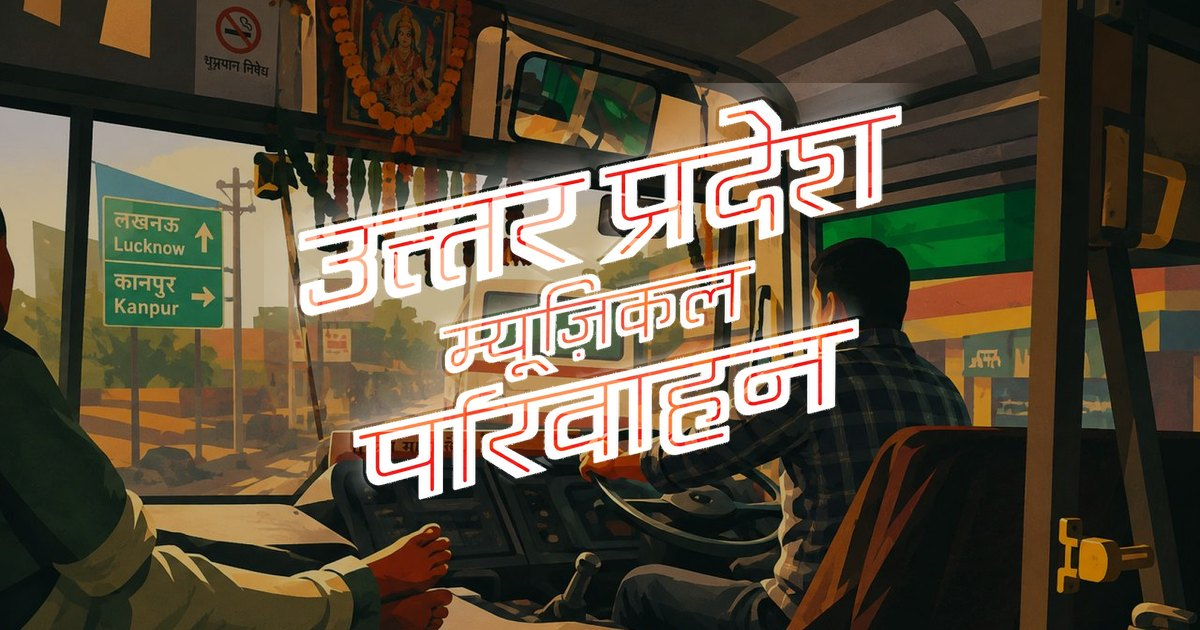
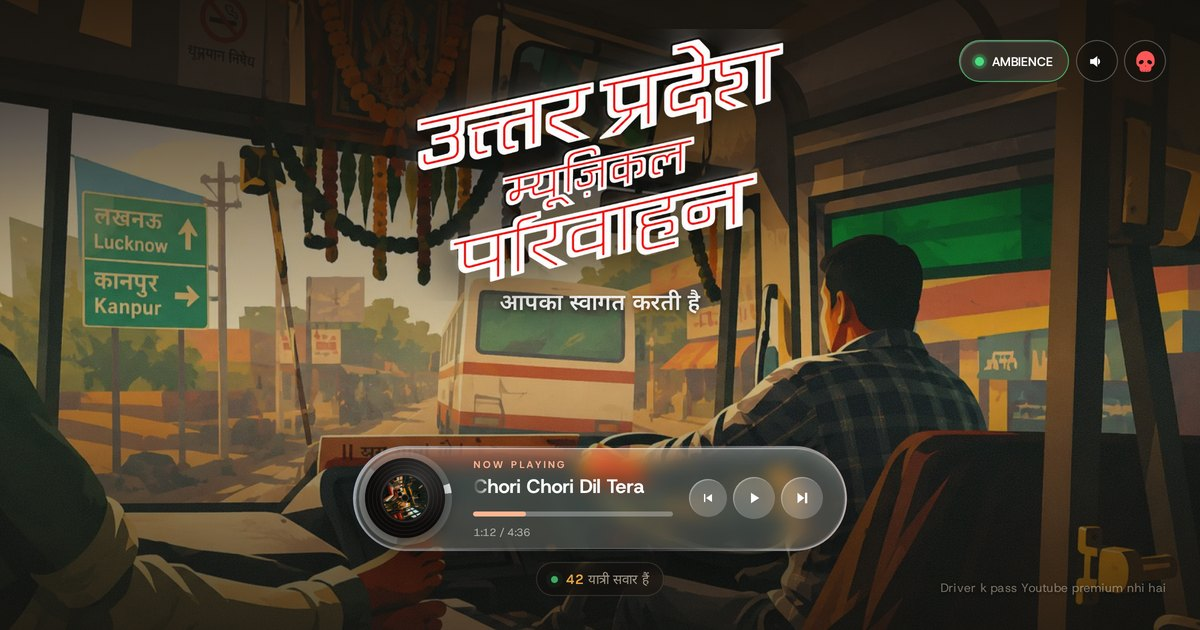
Make the preview card a render of the page
The previous card was the masthead artwork composited over a frame, which
still read as artwork rather than as the site. This one is the page itself,
shot at 1200x630 with a headless browser: title, subtitle, the glass player
mid-track, the passenger count and the driver's note about YouTube Premium.

The player is filled with a plausible moment rather than the sandbox's
"could not load" state, since YouTube is unreachable from where the shot is
taken. To regenerate, re-run the render and bump the ?v= on both image tags.

The version query matters: platforms cache preview images by URL and several
never re-fetch the same one, so a card replaced in place is invisible to
anyone who has already scraped the page.

Claude-Session: https://claude.ai/code/session_01MJ98bimU81Ezjo2cjNtVfW

diff --git a/index.html b/index.html
@@ -15,16 +15,18 @@
 <meta property="og:url" content="https://upbusdriver.wtf/">
 <!-- Absolute URL required: previews are fetched by other people's servers,
      which have no page to resolve a relative path against. 1200x630 is what
-     the platforms crop toward, so the card is built at that size rather than
-     letting them crop a 16:9 slide badly. -->
-<meta property="og:image" content="https://upbusdriver.wtf/images/og-card.jpg">
+     the platforms crop toward. The card is a render of the page itself, so a
+     shared link shows the interface rather than a bare frame of artwork.
+     Bump ?v= when the card is regenerated — every platform caches these by
+     URL, and several never re-fetch the same one. -->
+<meta property="og:image" content="https://upbusdriver.wtf/images/og-card.jpg?v=2">
 <meta property="og:image:width" content="1200">
 <meta property="og:image:height" content="630">
-<meta property="og:image:alt" content="उत्तर प्रदेश म्यूज़िकल परिवाहन — बस के अंदर से सड़क का दृश्य">
+<meta property="og:image:alt" content="उत्तर प्रदेश म्यूज़िकल परिवाहन — बस के अंदर का दृश्य, नीचे प्लेयर">
 <meta name="twitter:card" content="summary_large_image">
 <!-- X reads og:* as a fallback, but naming the image explicitly avoids
      depending on that. -->
-<meta name="twitter:image" content="https://upbusdriver.wtf/images/og-card.jpg">
+<meta name="twitter:image" content="https://upbusdriver.wtf/images/og-card.jpg?v=2">
 
 <link rel="icon" href="favicon.svg" type="image/svg+xml">
 <link rel="preload" as="font" type="font/woff2" href="fonts/noto-devanagari.woff2" crossorigin>
